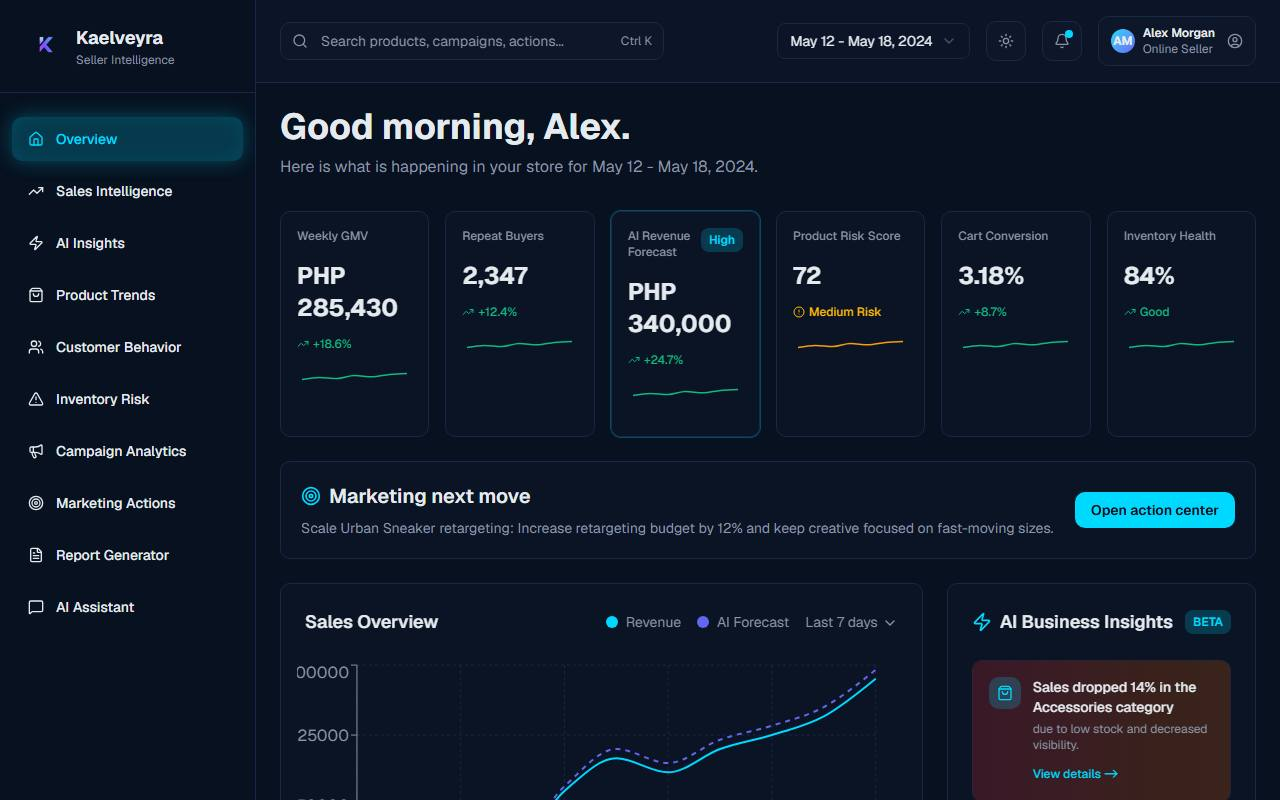
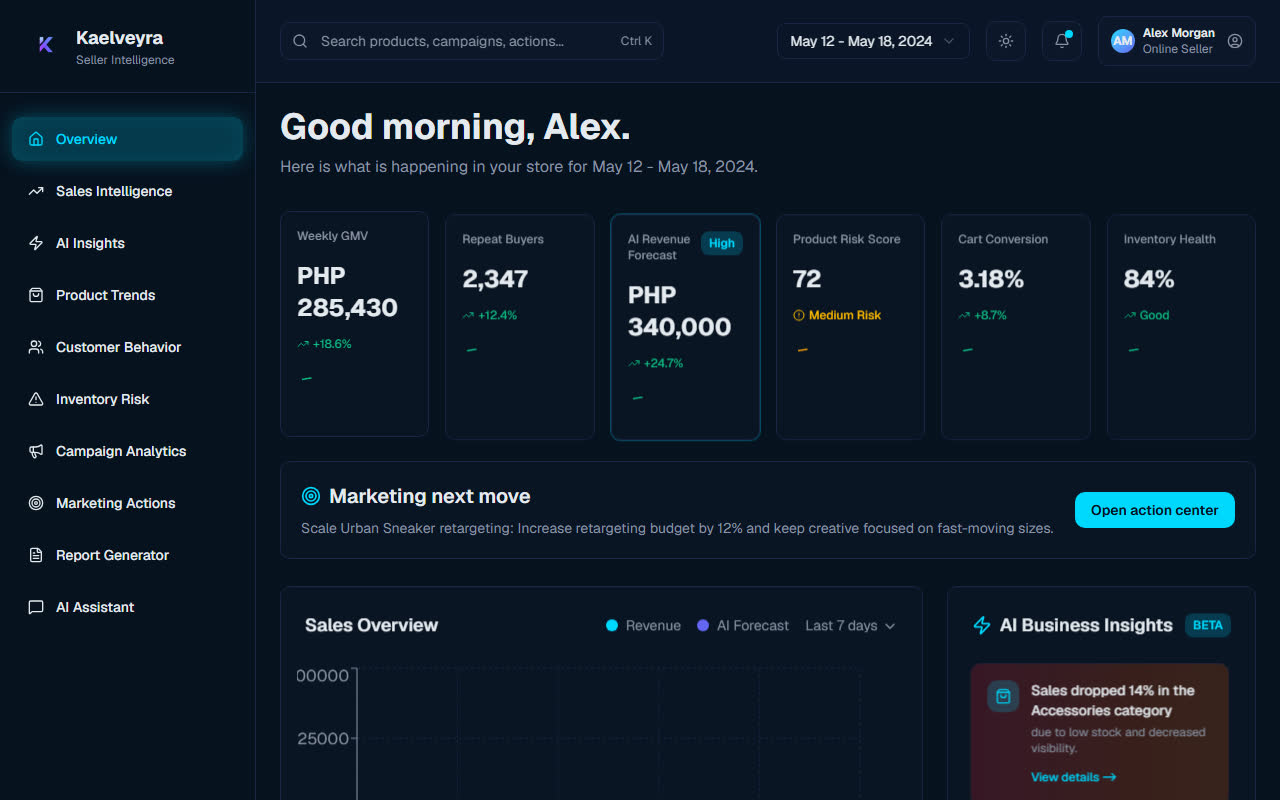
Redeploy YortyCollects off Lovable and refresh Featured Work
- Point the YortyCollects card at the real live site (yortycollects.vercel.app)
  instead of the old Lovable staging URL, and correct its tech stack.
- Refresh screenshots for YortyCollects, Kaelveyra, and Hireyert to their
  current live state (the latter two were caught mid dashboard-animation).
- Reorder Featured Work: Quinnfall Music, Ruth Yap, YortyCollects, RMC
  Collective Studio, then the rest unchanged.
- Update docs/progress.md and docs/context.md follow-up notes accordingly.

diff --git a/src/components/ProjectsSection.tsx b/src/components/ProjectsSection.tsx
@@ -12,6 +12,33 @@ const projectsData = [
     tech_stack: ["Next.js", "React", "TypeScript", "Tailwind CSS", "Vercel", "Redis/KV"],
   },
   {
+    id: "10",
+    title: "Ruth Yap — Writer",
+    type: "Portfolio",
+    image: "/screenshots/ruthyap.jpg",
+    description: "A portfolio for a professional writer, designed around the writing itself with clean typography, smooth Lenis scrolling, and subtle Framer Motion touches.",
+    project_url: "https://ruthyap-writer.vercel.app/",
+    tech_stack: ["Next.js 15", "React 19", "TypeScript", "Tailwind CSS v4", "Framer Motion", "Radix UI", "Lenis"],
+  },
+  {
+    id: "5",
+    title: "YortyCollects",
+    type: "E-commerce",
+    image: "/screenshots/yortycollects.jpg",
+    description: "An e-commerce storefront for a collectibles business, designed to show products at their best and turn browsers into buyers, with AI-assisted content shaping the direction.",
+    project_url: "https://yortycollects.vercel.app/",
+    tech_stack: ["React", "TypeScript", "Vite", "Tailwind CSS", "Zustand", "Radix UI", "Vercel"],
+  },
+  {
+    id: "9",
+    title: "RMC Collective Studio",
+    type: "Portfolio",
+    image: "/screenshots/rmc.jpg",
+    description: "A creative studio portfolio with bold typography and fluid, Lenis-powered scrolling. Built on the latest Next.js and React for a fast, polished feel.",
+    project_url: "https://rmc-collective-studio-portfolio.vercel.app/",
+    tech_stack: ["Next.js 16", "React 19", "TypeScript", "Tailwind CSS v4", "Lenis", "Vercel"],
+  },
+  {
     id: "2",
     title: "Kensei",
     type: "Product Mockup",
@@ -39,15 +66,6 @@ const projectsData = [
     tech_stack: ["Next.js 16", "React 19", "TypeScript", "Tailwind CSS 4", "Framer Motion", "Recharts", "Lucide React", "Radix UI"],
   },
   {
-    id: "5",
-    title: "YortyCollects",
-    type: "E-commerce",
-    image: "/screenshots/yortycollects.jpg",
-    description: "An e-commerce storefront for a collectibles business, designed to show products at their best and turn browsers into buyers, with AI-assisted content shaping the direction.",
-    project_url: "https://yorty-gems-collector.lovable.app/",
-    tech_stack: ["React", "Tailwind CSS"],
-  },
-  {
     id: "6",
     title: "Hypertroyphy",
     type: "Fitness Platform",
@@ -73,24 +91,6 @@ const projectsData = [
     description: "A clean, modern landing page for a 2K26 pilot service. The layout keeps the offer front and center, and it ships fast on Vercel.",
     project_url: "https://izeinurveinzzz-pilotservice-modern.vercel.app/",
     tech_stack: ["React 19", "TypeScript", "Vite 6", "Tailwind CSS v4", "Vercel"],
-  },
-  {
-    id: "9",
-    title: "RMC Collective Studio",
-    type: "Portfolio",
-    image: "/screenshots/rmc.jpg",
-    description: "A creative studio portfolio with bold typography and fluid, Lenis-powered scrolling. Built on the latest Next.js and React for a fast, polished feel.",
-    project_url: "https://rmc-collective-studio-portfolio.vercel.app/",
-    tech_stack: ["Next.js 16", "React 19", "TypeScript", "Tailwind CSS v4", "Lenis", "Vercel"],
-  },
-  {
-    id: "10",
-    title: "Ruth Yap — Writer",
-    type: "Portfolio",
-    image: "/screenshots/ruthyap.jpg",
-    description: "A portfolio for a professional writer, designed around the writing itself with clean typography, smooth Lenis scrolling, and subtle Framer Motion touches.",
-    project_url: "https://ruthyap-writer.vercel.app/",
-    tech_stack: ["Next.js 15", "React 19", "TypeScript", "Tailwind CSS v4", "Framer Motion", "Radix UI", "Lenis"],
   },
   {
     id: "11",

diff --git a/docs/context.md b/docs/context.md
@@ -45,6 +45,7 @@ Hero → Featured Work (projects) → Services → Stacks → About → Contact 
 
 ## Known follow-ups
 
-- Two project demos are still hosted on `*.lovable.app` (YortyCollects, Hypertroyphy).
-  Re-deploy them off Lovable and update the URLs if "Lovable traces" must be fully gone.
+- One project demo is still hosted on `*.lovable.app` (Hypertroyphy). YortyCollects was
+  redeployed off Lovable (now a Vite + React static site on Vercel) and its portfolio
+  entry updated to `https://yortycollects.vercel.app/` (2026-07-21).
 - The downloadable resume PDF / `scripts/generate-resume.mjs` still contains the gmail.

diff --git a/docs/progress.md b/docs/progress.md
@@ -2,6 +2,16 @@
 
 Status log for the portfolio. Newest first.
 
+## 2026-07-21
+
+- YortyCollects project demo now off Lovable — URL updated to
+  `https://yortycollects.vercel.app/`, tech stack corrected to what it actually runs
+  (React, TypeScript, Vite, Tailwind CSS, Zustand, Radix UI, Vercel), and its screenshot
+  refreshed to the current live site.
+- Refreshed screenshots for Kaelveyra and Hireyert (were mid dashboard-animation).
+- Reordered Featured Work: Quinnfall Music, Ruth Yap — Writer, YortyCollects, RMC
+  Collective Studio, then the rest unchanged.
+
 ## 2026-06-22
 
 ### Content / positioning
